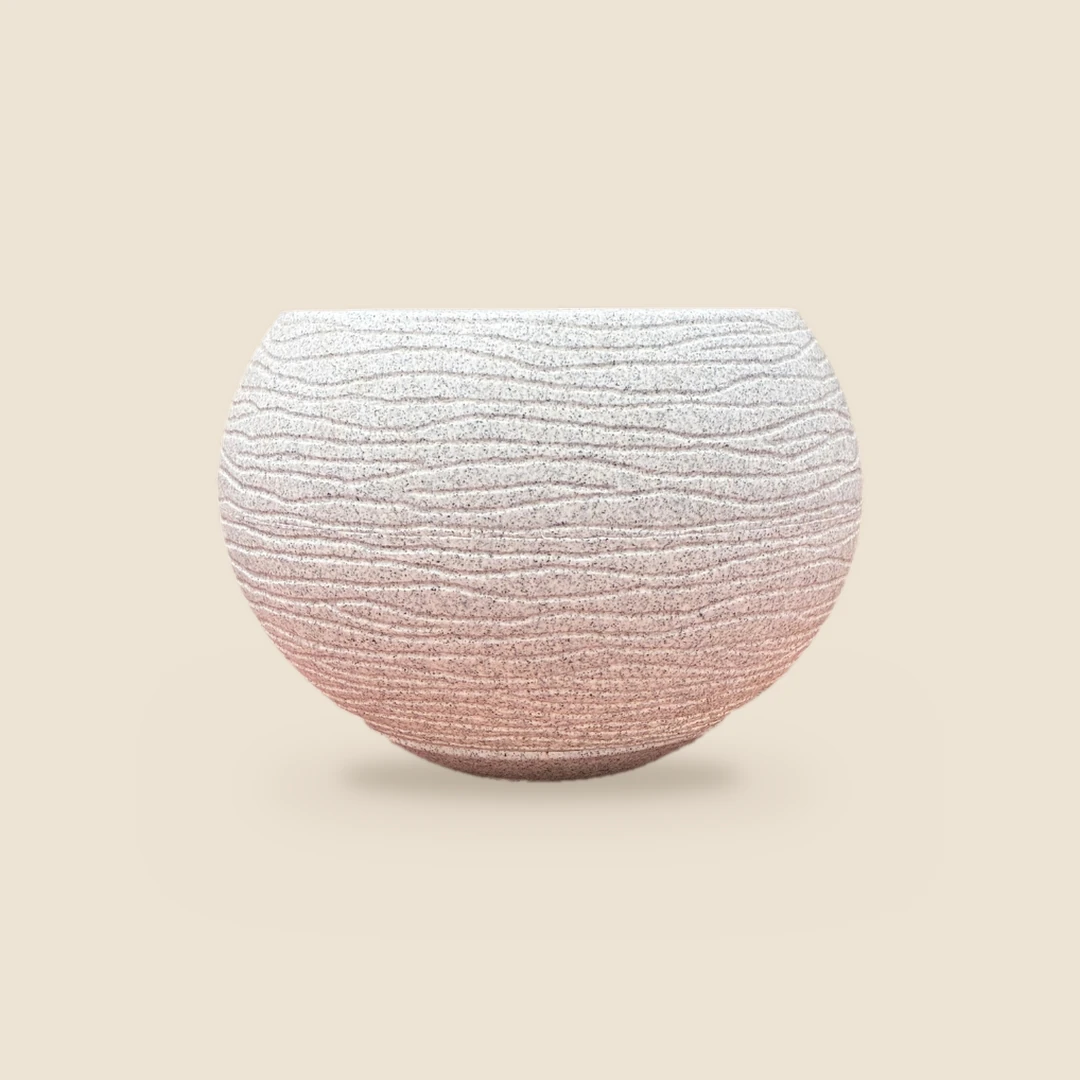
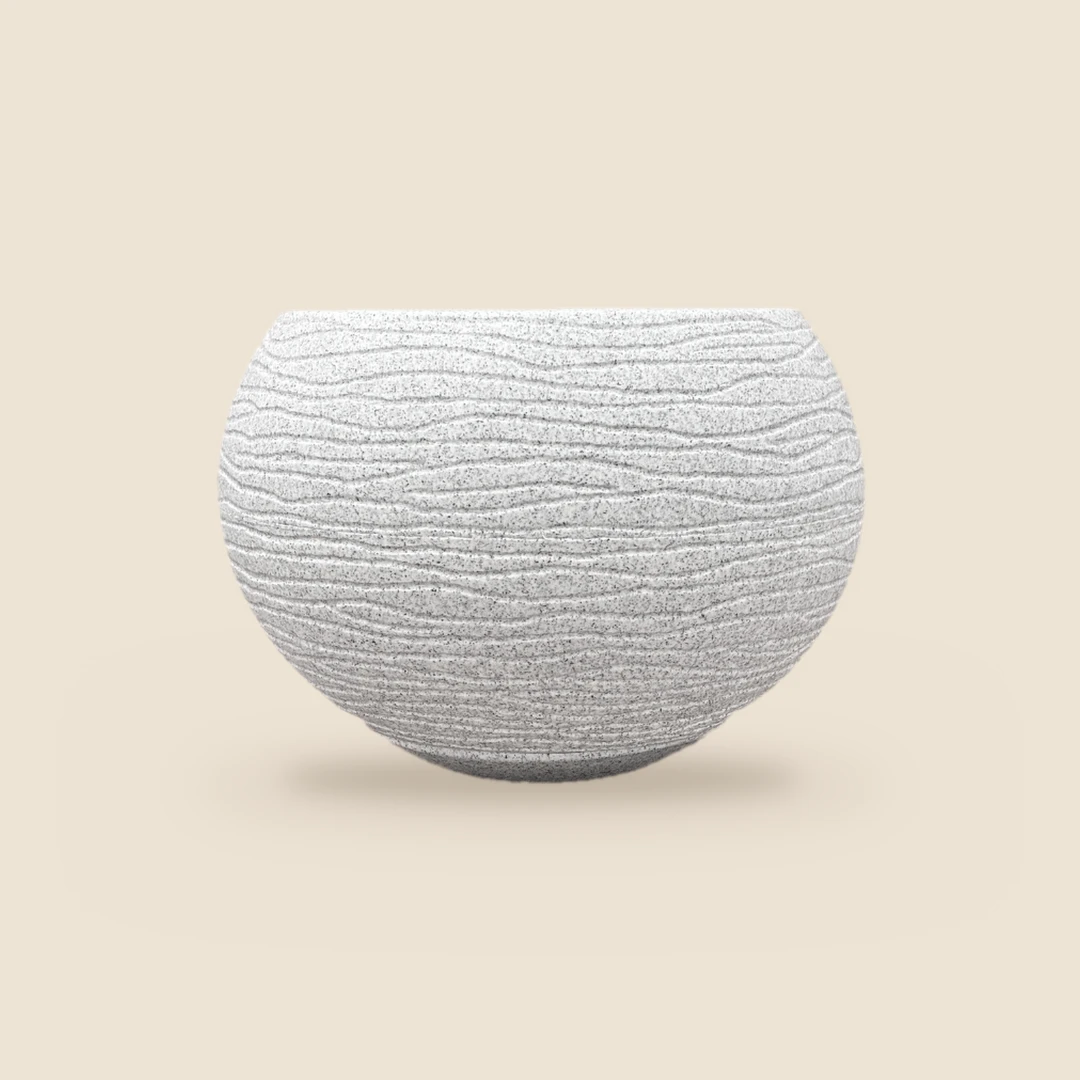
Tienda: textos nuevos, pago y retiro, y Florencia Esfera sin reflejo naranja
- Título, bajada y descripción de los cinco productos
- Fichas: días y horarios de retiro, y medios de pago
- Florencia Esfera: fotos rehechas neutralizando el reflejo del mantel (queda blanca símil piedra)

Claude-Session: https://claude.ai/code/session_01PR97k3LPpdjkPDCCMnTNCL

Changed region(s): [[0.2139, 0.275, 0.7944, 0.7333], [0.3667, 0.3056, 0.3972, 0.3361]]

diff --git a/tienda.html b/tienda.html
@@ -68,7 +68,7 @@
     "item": {
      "@type": "Product",
      "name": "Samba",
-     "description": "Cerámica esmaltada en verde pastel, con relieve ondulado en tres anillos. Tiene orificio de drenaje, así que sirve para plantar directo.",
+     "description": "Tres anillos ondulados en cerámica esmaltada verde pastel. Chica y con mucha presencia, va bien con suculentas y plantas colgantes cortas. Tiene orificio de drenaje, así que se planta directo.",
      "sku": "samba",
      "category": "Macetas",
      "material": "Cerámica esmaltada",
@@ -141,7 +141,7 @@
     "item": {
      "@type": "Product",
      "name": "Diamante",
-     "description": "Cerámica esmaltada en verde pastel, con relieve de pliegues facetados. Tiene orificio de drenaje, así que sirve para plantar directo.",
+     "description": "Cerámica esmaltada verde pastel con pliegues facetados que cambian con la luz. Tiene orificio de drenaje, así que se planta directo.",
      "sku": "diamante",
      "category": "Macetas",
      "material": "Cerámica esmaltada",
@@ -209,7 +209,7 @@
     "item": {
      "@type": "Product",
      "name": "Cilindro Grande",
-     "description": "Cerámica esmaltada en amarillo mostaza, forma cilíndrica lisa con plato a juego. Tiene orificio de drenaje, así que sirve para plantar directo.",
+     "description": "Cilindro liso en cerámica esmaltada amarillo mostaza, con plato a juego. Tiene orificio de drenaje, así que se planta directo.",
      "sku": "cilindro-grande",
      "category": "Macetas",
      "material": "Cerámica esmaltada",
@@ -277,7 +277,7 @@
     "item": {
      "@type": "Product",
      "name": "Florencia Esfera",
-     "description": "Maceta esférica de 7 litros en polietileno rotomoldeado, con acabado símil piedra y plato incluido. Tiene agujero de drenaje. Apta intemperie: soporta sol, lluvia y humedad, con protección UV.",
+     "description": "Esfera de 7 litros con acabado símil piedra, liviana y resistente. Es apta para intemperie: soporta sol, lluvia y humedad sin decolorarse. Tiene agujero de drenaje y plato incluido.",
      "sku": "florencia-esfera",
      "category": "Macetas",
      "material": "Polietileno rotomoldeado",
@@ -370,7 +370,7 @@
     "item": {
      "@type": "Product",
      "name": "Cilindro Grande Rosa y Arena",
-     "description": "Maceta cilíndrica de cerámica esmaltada a mano, bicolor: esmalte rosa claro arriba y acabado arena mate abajo, con plato del mismo color. Ideal para interiores y exteriores. Recomendamos no dejar agua estancada en el plato para evitar que se filtre humedad. No incluye planta.",
+     "description": "El mismo cilindro, esmaltado a mano en dos tonos: rosa claro brillante arriba y arena mate abajo, con plato a juego. Sirve para interior y exterior. No conviene dejar agua estancada en el plato.",
      "sku": "cilindro-grande-rosa",
      "category": "Macetas",
      "material": "Cerámica esmaltada",
@@ -689,8 +689,8 @@ body:has(dialog[open]){overflow:hidden}
 
   <section class="portada">
     <span class="portada-eyebrow">La Tienda de Arcos V</span>
-    <h1>Los productos de nuestros talleres y workshops</h1>
-    <p>Lo que se vende en los workshops de Arcos V, ahora podés verlo y pedirlo por acá. Por ahora, macetas que nos quedaron del vivero: son unidades contadas, y cuando se termina un modelo, no vuelve.</p>
+    <h1>Macetas de cerámica y de diseño</h1>
+    <p>Las elegimos una por una durante nueve años de vivero. Cada modelo tiene su precio, sus medidas y una foto a escala para comparar tamaños. Son unidades contadas: cuando se termina un modelo, no vuelve. Se retiran en Núñez.</p>
   </section>
 
   <!-- Los productos se cargan desde productos.js (ahí se agregan modelos nuevos) -->
@@ -700,11 +700,11 @@ body:has(dialog[open]){overflow:hidden}
   </section>
 
   <section class="grilla" id="grilla" aria-label="Productos"><!--PRE:INI-->
-<article class="tarjeta"><a href="#samba"><div class="foto"><img src="samba-1.webp?v=283b5e94" alt="Samba a escala" loading="lazy"></div><h3>Samba</h3><p class="tarjeta-precio">$35.000</p><p class="tarjeta-medida">Ancho 15,5 cm · Alto 13 cm</p><p class="tarjeta-resumen">Cerámica esmaltada en verde pastel, con relieve ondulado en tres anillos. Tiene orificio de drenaje, así que sirve para plantar directo.</p><p class="tarjeta-resumen">Medidas y datos: Diámetro: 15,5 cm; Alto: 13 cm; Boca interna: 12,5 cm; Peso: 1 kg; Material: Cerámica esmaltada.</p></a></article>
-<article class="tarjeta"><a href="#diamante"><div class="foto"><img src="diamante-1.webp?v=283b5e94" alt="Diamante a escala" loading="lazy"></div><h3>Diamante</h3><p class="tarjeta-precio">$32.000</p><p class="tarjeta-medida">Ancho 15 cm · Alto 15 cm</p><p class="tarjeta-resumen">Cerámica esmaltada en verde pastel, con relieve de pliegues facetados. Tiene orificio de drenaje, así que sirve para plantar directo.</p><p class="tarjeta-resumen">Medidas y datos: Boca: 15 cm; Alto: 15 cm; Base: 11 cm; Material: Cerámica esmaltada.</p></a></article>
-<article class="tarjeta"><a href="#cilindro-grande"><div class="foto"><img src="cilindro-grande-1.webp?v=283b5e94" alt="Cilindro Grande a escala" loading="lazy"><span class="etiqueta">Con plato</span></div><h3>Cilindro Grande</h3><p class="tarjeta-precio">$40.000</p><p class="tarjeta-medida">Ancho 14 cm · Alto 11 cm</p><p class="tarjeta-resumen">Cerámica esmaltada en amarillo mostaza, forma cilíndrica lisa con plato a juego. Tiene orificio de drenaje, así que sirve para plantar directo.</p><p class="tarjeta-resumen">Medidas y datos: Diámetro: 14 cm; Alto: 11 cm; Plato: 16,5 cm; Material: Cerámica esmaltada.</p></a></article>
-<article class="tarjeta"><a href="#florencia-esfera"><div class="foto"><img src="florencia-esfera-1.webp?v=283b5e94" alt="Florencia Esfera a escala" loading="lazy"><span class="etiqueta">Con plato</span></div><h3>Florencia Esfera</h3><p class="tarjeta-precio">$23.000</p><p class="tarjeta-medida">Ancho 27 cm · Alto 19 cm</p><p class="tarjeta-resumen">Maceta esférica de 7 litros en polietileno rotomoldeado, con acabado símil piedra y plato incluido. Tiene agujero de drenaje. Apta intemperie: soporta sol, lluvia y humedad, con protección UV.</p><p class="tarjeta-resumen">Medidas y datos: Alto: 19 cm; Ancho máximo: 27 cm; Diámetro de la boca: 17 cm; Diámetro de la base: 9 cm; Capacidad: 7 litros; Peso: 0,4 kg; Material: Polietileno rotomoldeado; Acabado: Símil piedra; Plato: Incluido.</p></a></article>
-<article class="tarjeta"><a href="#cilindro-grande-rosa"><div class="foto"><img src="cilindro-grande-rosa-1.webp?v=283b5e94" alt="Cilindro Grande Rosa y Arena a escala" loading="lazy"><span class="etiqueta">Con plato</span></div><h3>Cilindro Grande Rosa y Arena</h3><p class="tarjeta-precio">$42.500</p><p class="tarjeta-medida">Ancho 14 cm · Alto 11 cm</p><p class="tarjeta-resumen">Maceta cilíndrica de cerámica esmaltada a mano, bicolor: esmalte rosa claro arriba y acabado arena mate abajo, con plato del mismo color. Ideal para interiores y exteriores. Recomendamos no dejar agua estancada en el plato para evitar que se filtre humedad. No incluye planta.</p><p class="tarjeta-resumen">Medidas y datos: Diámetro: 14 cm; Alto: 11 cm; Plato: 16,5 cm; Material: Cerámica esmaltada a mano.</p></a></article>
+<article class="tarjeta"><a href="#samba"><div class="foto"><img src="samba-1.webp?v=d41ab375" alt="Samba a escala" loading="lazy"></div><h3>Samba</h3><p class="tarjeta-precio">$35.000</p><p class="tarjeta-medida">Ancho 15,5 cm · Alto 13 cm</p><p class="tarjeta-resumen">Tres anillos ondulados en cerámica esmaltada verde pastel. Chica y con mucha presencia, va bien con suculentas y plantas colgantes cortas. Tiene orificio de drenaje, así que se planta directo.</p><p class="tarjeta-resumen">Medidas y datos: Diámetro: 15,5 cm; Alto: 13 cm; Boca interna: 12,5 cm; Peso: 1 kg; Material: Cerámica esmaltada.</p></a></article>
+<article class="tarjeta"><a href="#diamante"><div class="foto"><img src="diamante-1.webp?v=d41ab375" alt="Diamante a escala" loading="lazy"></div><h3>Diamante</h3><p class="tarjeta-precio">$32.000</p><p class="tarjeta-medida">Ancho 15 cm · Alto 15 cm</p><p class="tarjeta-resumen">Cerámica esmaltada verde pastel con pliegues facetados que cambian con la luz. Tiene orificio de drenaje, así que se planta directo.</p><p class="tarjeta-resumen">Medidas y datos: Boca: 15 cm; Alto: 15 cm; Base: 11 cm; Material: Cerámica esmaltada.</p></a></article>
+<article class="tarjeta"><a href="#cilindro-grande"><div class="foto"><img src="cilindro-grande-1.webp?v=d41ab375" alt="Cilindro Grande a escala" loading="lazy"><span class="etiqueta">Con plato</span></div><h3>Cilindro Grande</h3><p class="tarjeta-precio">$40.000</p><p class="tarjeta-medida">Ancho 14 cm · Alto 11 cm</p><p class="tarjeta-resumen">Cilindro liso en cerámica esmaltada amarillo mostaza, con plato a juego. Tiene orificio de drenaje, así que se planta directo.</p><p class="tarjeta-resumen">Medidas y datos: Diámetro: 14 cm; Alto: 11 cm; Plato: 16,5 cm; Material: Cerámica esmaltada.</p></a></article>
+<article class="tarjeta"><a href="#florencia-esfera"><div class="foto"><img src="florencia-esfera-1.webp?v=d41ab375" alt="Florencia Esfera a escala" loading="lazy"><span class="etiqueta">Con plato</span></div><h3>Florencia Esfera</h3><p class="tarjeta-precio">$23.000</p><p class="tarjeta-medida">Ancho 27 cm · Alto 19 cm</p><p class="tarjeta-resumen">Esfera de 7 litros con acabado símil piedra, liviana y resistente. Es apta para intemperie: soporta sol, lluvia y humedad sin decolorarse. Tiene agujero de drenaje y plato incluido.</p><p class="tarjeta-resumen">Medidas y datos: Alto: 19 cm; Ancho máximo: 27 cm; Diámetro de la boca: 17 cm; Diámetro de la base: 9 cm; Capacidad: 7 litros; Peso: 0,4 kg; Material: Polietileno rotomoldeado; Acabado: Símil piedra; Plato: Incluido.</p></a></article>
+<article class="tarjeta"><a href="#cilindro-grande-rosa"><div class="foto"><img src="cilindro-grande-rosa-1.webp?v=d41ab375" alt="Cilindro Grande Rosa y Arena a escala" loading="lazy"><span class="etiqueta">Con plato</span></div><h3>Cilindro Grande Rosa y Arena</h3><p class="tarjeta-precio">$42.500</p><p class="tarjeta-medida">Ancho 14 cm · Alto 11 cm</p><p class="tarjeta-resumen">El mismo cilindro, esmaltado a mano en dos tonos: rosa claro brillante arriba y arena mate abajo, con plato a juego. Sirve para interior y exterior. No conviene dejar agua estancada en el plato.</p><p class="tarjeta-resumen">Medidas y datos: Diámetro: 14 cm; Alto: 11 cm; Plato: 16,5 cm; Material: Cerámica esmaltada a mano.</p></a></article>
 <!--PRE:FIN--></section>
   <noscript><p class="vacio">Para ver los productos necesitás tener JavaScript activado. Escribinos por WhatsApp y te contamos qué tenemos.</p></noscript>
 
@@ -717,7 +717,7 @@ body:has(dialog[open]){overflow:hidden}
 
 </div>
 
-<script src="productos.js?v=283b5e94"></script>
+<script src="productos.js?v=d41ab375"></script>
 <script>
 (function(){
   var P = PRODUCTOS, W = TIENDA.whatsapp;
@@ -728,7 +728,7 @@ body:has(dialog[open]){overflow:hidden}
      es el mismo recorte para todas, las diferencias de tamaño se ven de un vistazo. */
   /* VER cambia solo cuando cambian productos.js o las fotos (lo actualiza prerender.py);
      se agrega a los links para que el navegador no use copias viejas guardadas. */
-  var VER = '283b5e94';
+  var VER = 'd41ab375';
   function F(f){ return f + '?v=' + VER; }
   var PX_CM = 24, BASE_Y = 782;
   var maxAncho = Math.max.apply(null, P.map(function(p){ return p.ancho; }));

diff --git a/productos.js b/productos.js
@@ -25,7 +25,7 @@
 
 var TIENDA = {
   whatsapp: "5491162834000",
-  retiro: "Se retira en Arcos 2952, Núñez."
+  retiro: "Se retira en Arcos 2952, Núñez, de martes a sábado de 10:30 a 13 y de 15:30 a 18:30. Se paga por transferencia o en efectivo al retirar."
 };
 
 var PRODUCTOS = [
@@ -41,7 +41,7 @@ var PRODUCTOS = [
     material: "Cerámica esmaltada",
     plato: false,
     agotado: false,
-    resumen: "Cerámica esmaltada en verde pastel, con relieve ondulado en tres anillos. Tiene orificio de drenaje, así que sirve para plantar directo.",
+    resumen: "Tres anillos ondulados en cerámica esmaltada verde pastel. Chica y con mucha presencia, va bien con suculentas y plantas colgantes cortas. Tiene orificio de drenaje, así que se planta directo.",
     fotos: ["samba-2.webp", "samba-1.webp"],
     medidas: [
       ["Diámetro", "15,5 cm"],
@@ -63,7 +63,7 @@ var PRODUCTOS = [
     material: "Cerámica esmaltada",
     plato: false,
     agotado: false,
-    resumen: "Cerámica esmaltada en verde pastel, con relieve de pliegues facetados. Tiene orificio de drenaje, así que sirve para plantar directo.",
+    resumen: "Cerámica esmaltada verde pastel con pliegues facetados que cambian con la luz. Tiene orificio de drenaje, así que se planta directo.",
     fotos: ["diamante-2.webp", "diamante-1.webp"],
     medidas: [
       ["Boca", "15 cm"],
@@ -84,7 +84,7 @@ var PRODUCTOS = [
     material: "Cerámica esmaltada",
     plato: true,
     agotado: false,
-    resumen: "Cerámica esmaltada en amarillo mostaza, forma cilíndrica lisa con plato a juego. Tiene orificio de drenaje, así que sirve para plantar directo.",
+    resumen: "Cilindro liso en cerámica esmaltada amarillo mostaza, con plato a juego. Tiene orificio de drenaje, así que se planta directo.",
     fotos: ["cilindro-grande-2.webp", "cilindro-grande-1.webp"],
     medidas: [
       ["Diámetro", "14 cm"],
@@ -105,7 +105,7 @@ var PRODUCTOS = [
     material: "Polietileno rotomoldeado",
     plato: true,
     agotado: false,
-    resumen: "Maceta esférica de 7 litros en polietileno rotomoldeado, con acabado símil piedra y plato incluido. Tiene agujero de drenaje. Apta intemperie: soporta sol, lluvia y humedad, con protección UV.",
+    resumen: "Esfera de 7 litros con acabado símil piedra, liviana y resistente. Es apta para intemperie: soporta sol, lluvia y humedad sin decolorarse. Tiene agujero de drenaje y plato incluido.",
     fotos: ["florencia-esfera-medidas.webp", "florencia-esfera-1.webp"],
     medidas: [
       ["Alto", "19 cm"],
@@ -131,7 +131,7 @@ var PRODUCTOS = [
     material: "Cerámica esmaltada",
     plato: true,
     agotado: false,
-    resumen: "Maceta cilíndrica de cerámica esmaltada a mano, bicolor: esmalte rosa claro arriba y acabado arena mate abajo, con plato del mismo color. Ideal para interiores y exteriores. Recomendamos no dejar agua estancada en el plato para evitar que se filtre humedad. No incluye planta.",
+    resumen: "El mismo cilindro, esmaltado a mano en dos tonos: rosa claro brillante arriba y arena mate abajo, con plato a juego. Sirve para interior y exterior. No conviene dejar agua estancada en el plato.",
     fotos: ["cilindro-grande-rosa-medidas.webp", "cilindro-grande-rosa-1.webp"],
     medidas: [
       ["Diámetro", "14 cm"],

diff --git a/tienda-herramientas/LEEME.md b/tienda-herramientas/LEEME.md
@@ -55,7 +55,7 @@ python3 tienda-herramientas/fotos.py --foto cruda.png --slug cilindro-grande-ros
 ## Datos fijos
 
 - **WhatsApp de la tienda y de Arcos V: 1162834000** (`5491162834000` en los links). El `+54 9 11 6489-9011` **no** es de Arcos V; es de Carolina Vitulli, no usarlo en la tienda.
-- Retiro: "Se retira en Arcos 2952, Núñez."
+- Retiro y pago (campo `retiro` de `productos.js`): se retira en Arcos 2952, Núñez, de martes a sábado de 10:30 a 13 y de 15:30 a 18:30; se paga por transferencia o en efectivo al retirar. Todo el stock es contado (no se repone).
 - Precio sin puntos en `productos.js` (`35000`). Si no hay precio todavía: `precio: null` y la tienda dice "Consultar precio".
 - Productos agotados: `agotado: true` (quedan al final de la grilla y sin botón de compra).
 - Los filtros de ancho de la grilla son por tramos (hasta 18 cm, de 18 a 25, más de 25) y se definen en el script de `tienda.html` (`TRAMOS`). Si aparecen macetas muy distintas, revisar los cortes.
